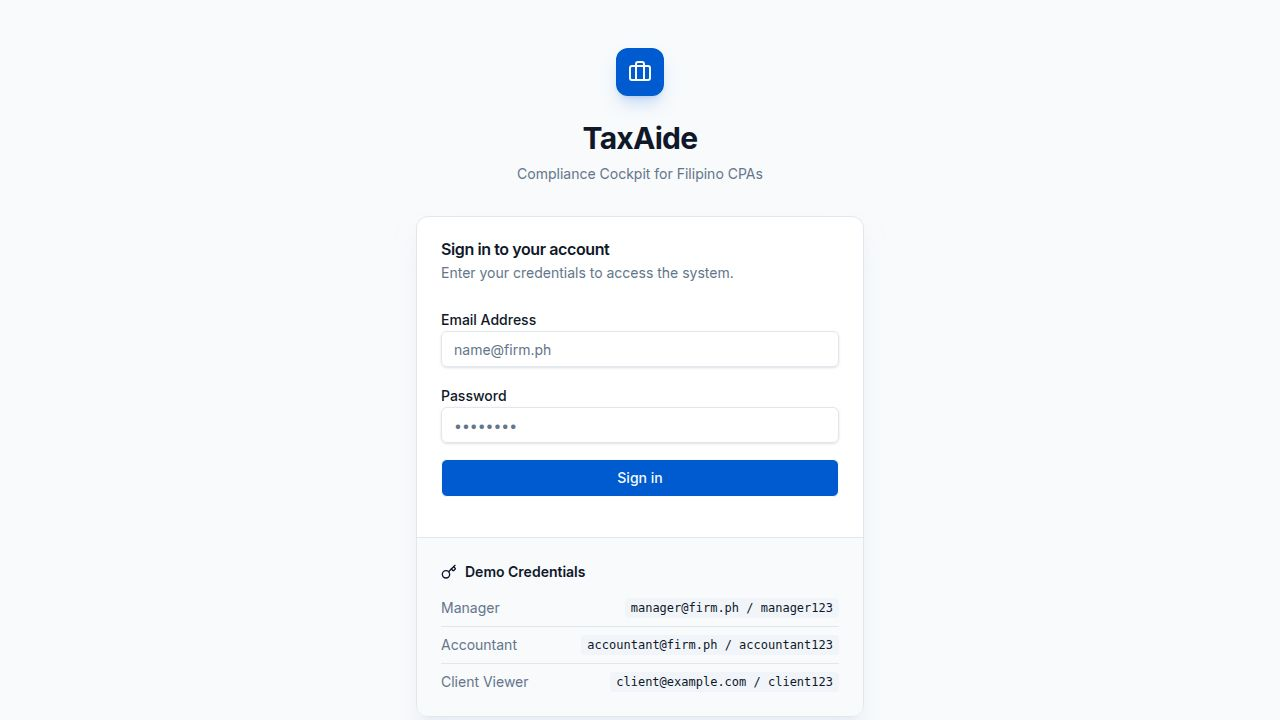
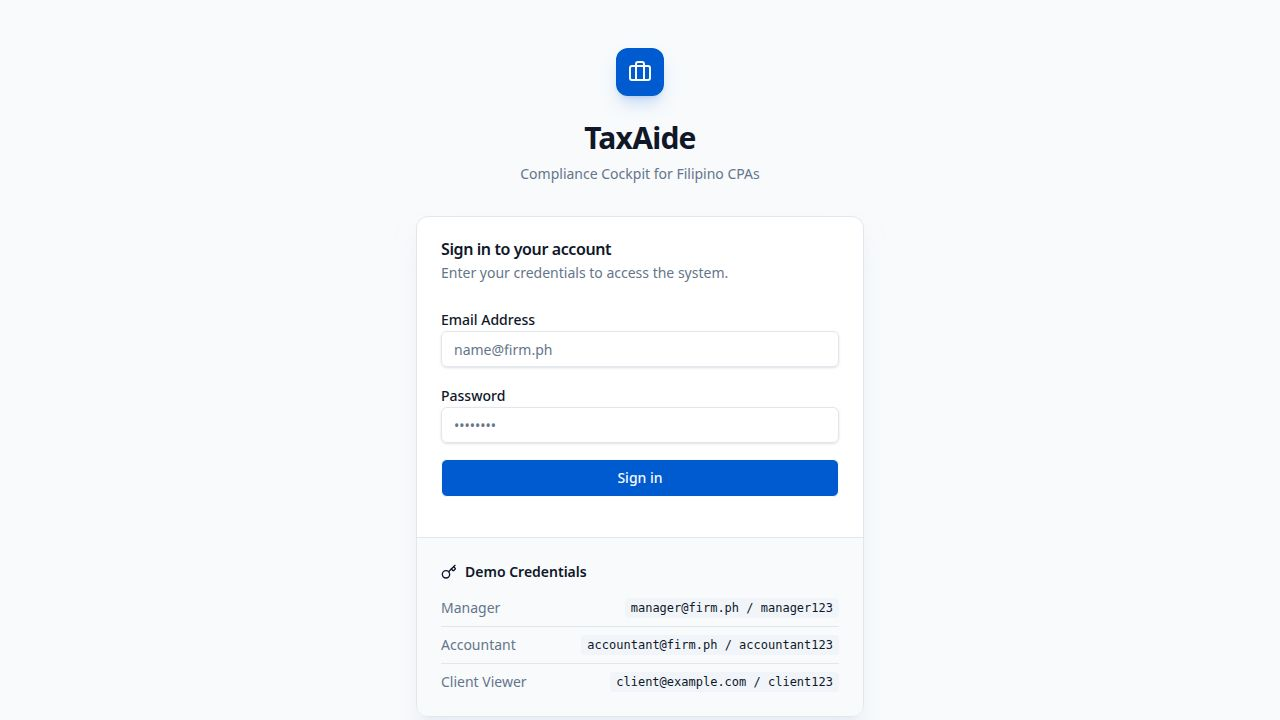
Update tax form labels and remove obsolete monthly VAT filings
Refactor tax form labels, descriptions, and compliance generation logic.

Replit-Commit-Author: Agent
Replit-Commit-Session-Id: 93ede965-432b-4757-ad92-616e92addf89
Replit-Commit-Checkpoint-Type: full_checkpoint
Replit-Commit-Event-Id: 9a07f141-a648-4c57-964b-a7d62065edd6
Replit-Commit-Screenshot-Url: https://storage.googleapis.com/screenshot-production-us-central1/40102629-3669-415f-b81d-ba0838fb7f21/93ede965-432b-4757-ad92-616e92addf89/2CLVzMj
Replit-Helium-Checkpoint-Created: true

diff --git a/artifacts/taxcms/src/pages/client-detail.tsx b/artifacts/taxcms/src/pages/client-detail.tsx
@@ -186,10 +186,10 @@ export default function ClientDetail() {
   const registeredTypes: { label: string; color: string }[] = [];
   if (client.incomeTaxType === "corporate") registeredTypes.push({ label: "1702/1702Q — Corp ITR", color: "bg-emerald-100 text-emerald-700" });
   if (client.incomeTaxType === "individual") registeredTypes.push({ label: "1701/1701Q — Indiv ITR", color: "bg-green-100 text-green-700" });
-  if (client.vatRegistered) registeredTypes.push({ label: "2550M/2550Q — VAT", color: "bg-blue-100 text-blue-700" });
+  if (client.vatRegistered) registeredTypes.push({ label: "2550Q/SLS/SLP — VAT", color: "bg-blue-100 text-blue-700" });
   if (client.percentageTaxRegistered) registeredTypes.push({ label: "2551Q — Percentage Tax", color: "bg-violet-100 text-violet-700" });
   if (client.withholdsCompensation) registeredTypes.push({ label: "1601C/1604C — WHT Comp", color: "bg-amber-100 text-amber-700" });
-  if (client.withholdsEwt) registeredTypes.push({ label: "1601EQ/1604E — EWT", color: "bg-orange-100 text-orange-700" });
+  if (client.withholdsEwt) registeredTypes.push({ label: "0619E/1601EQ/1604E — EWT", color: "bg-orange-100 text-orange-700" });
   if (client.subjectToDst) registeredTypes.push({ label: "2000 — DST", color: "bg-slate-100 text-slate-700" });
   if (client.withholdsFinal) registeredTypes.push({ label: "Final WHT", color: "bg-violet-100 text-violet-700" });
   if (client.hasInventory) registeredTypes.push({ label: "Annual Inventory List", color: "bg-teal-100 text-teal-700" });
@@ -611,8 +611,8 @@ export default function ClientDetail() {
                 <div className="p-3 rounded-md border space-y-2 bg-muted/30">
                   <Label className="text-xs text-muted-foreground uppercase">VAT / Percentage Tax</Label>
                   {[
-                    { key: "vatRegistered", label: "VAT Registered", sub: "Monthly 2550M + Quarterly 2550Q" },
-                    { key: "percentageTaxRegistered", label: "Percentage Tax (Non-VAT)", sub: "Quarterly 2551Q" },
+                    { key: "vatRegistered", label: "Value-Added Tax (VAT)", sub: "Quarterly 2550Q + SLS/SLP (due 25th of following month)" },
+                    { key: "percentageTaxRegistered", label: "Percentage Tax (Non-VAT)", sub: "Quarterly 2551Q (due 25th of following month)" },
                   ].map(item => (
                     <div key={item.key} className="flex items-start gap-3">
                       <Checkbox checked={!!editForm[item.key]} onCheckedChange={v => ef(item.key, v)} />
@@ -623,8 +623,9 @@ export default function ClientDetail() {
                 <div className="p-3 rounded-md border space-y-2 bg-muted/30">
                   <Label className="text-xs text-muted-foreground uppercase">Withholding Taxes</Label>
                   {[
-                    { key: "withholdsCompensation", label: "Withholding Tax on Compensation", sub: "Monthly 1601C + Annual 1604CF" },
-                    { key: "withholdsEwt", label: "Expanded Withholding Tax (EWT)", sub: "Quarterly 1601EQ + Annual 1604E" },
+                    { key: "withholdsCompensation", label: "Withholding Tax on Compensation", sub: "Monthly 1601C (due 10th) + Annual 1604C (due March 1)" },
+                    { key: "withholdsEwt", label: "Expanded Withholding Tax (EWT)", sub: "Monthly 0619E (due 10th) + Quarterly 1601EQ + QAP + Annual 1604E (due March 1)" },
+                    { key: "withholdsFinal", label: "Final Withholding Tax (FWT)", sub: "Monthly 0619F (due 10th) + Quarterly 1601FQ + Annual 1604F (due March 1)" },
                   ].map(item => (
                     <div key={item.key} className="flex items-start gap-3">
                       <Checkbox checked={!!editForm[item.key]} onCheckedChange={v => ef(item.key, v)} />
@@ -641,7 +642,6 @@ export default function ClientDetail() {
                 <div className="p-3 rounded-md border space-y-2 bg-muted/30">
                   <Label className="text-xs text-muted-foreground uppercase">Additional Compliance Requirements</Label>
                   {[
-                    { key: "withholdsFinal", label: "Withholds Final Tax (FWT)", sub: "0619F monthly + 1601FQ quarterly + 1604F annual" },
                     { key: "hasInventory", label: "Has Inventory", sub: "Annual Inventory List due January 30" },
                     { key: "isLessor", label: "Lessor of Commercial Property", sub: "Lessee Information Statement due January 31" },
                     { key: "isEsalesRequired", label: "eSales Reporting Required", sub: "Monthly eSales report due 8th or 10th (based on TIN last digit)" },

diff --git a/artifacts/taxcms/src/pages/clients.tsx b/artifacts/taxcms/src/pages/clients.tsx
@@ -270,8 +270,8 @@ export default function Clients() {
                         <div className="flex items-start gap-3">
                           <Checkbox id="vat" checked={form.vatRegistered} onCheckedChange={() => toggle("vatRegistered")} />
                           <div>
-                            <label htmlFor="vat" className="text-sm font-medium cursor-pointer">VAT Registered</label>
-                            <p className="text-xs text-muted-foreground">Monthly 2550M (due 20th) + Quarterly 2550Q (due 25th)</p>
+                            <label htmlFor="vat" className="text-sm font-medium cursor-pointer">Value-Added Tax (VAT)</label>
+                            <p className="text-xs text-muted-foreground">Quarterly 2550Q + SLS/SLP (due 25th of following month)</p>
                           </div>
                         </div>
                         <div className="flex items-start gap-3">
@@ -291,14 +291,21 @@ export default function Clients() {
                           <Checkbox id="comp" checked={form.withholdsCompensation} onCheckedChange={() => toggle("withholdsCompensation")} />
                           <div>
                             <label htmlFor="comp" className="text-sm font-medium cursor-pointer">Withholding Tax on Compensation</label>
-                            <p className="text-xs text-muted-foreground">Monthly 1601C (due 10th) + Annual 1604CF (due March 1)</p>
+                            <p className="text-xs text-muted-foreground">Monthly 1601C (due 10th) + Annual 1604C (due March 1)</p>
                           </div>
                         </div>
                         <div className="flex items-start gap-3">
                           <Checkbox id="ewt" checked={form.withholdsEwt} onCheckedChange={() => toggle("withholdsEwt")} />
                           <div>
                             <label htmlFor="ewt" className="text-sm font-medium cursor-pointer">Expanded Withholding Tax (EWT)</label>
-                            <p className="text-xs text-muted-foreground">Quarterly 1601EQ + Annual 1604E (due March 1)</p>
+                            <p className="text-xs text-muted-foreground">Monthly 0619E (due 10th) + Quarterly 1601EQ + QAP + Annual 1604E (due March 1)</p>
+                          </div>
+                        </div>
+                        <div className="flex items-start gap-3">
+                          <Checkbox id="whtFinal" checked={form.withholdsFinal} onCheckedChange={() => toggle("withholdsFinal")} />
+                          <div>
+                            <label htmlFor="whtFinal" className="text-sm font-medium cursor-pointer">Final Withholding Tax (FWT)</label>
+                            <p className="text-xs text-muted-foreground">Monthly 0619F (due 10th) + Quarterly 1601FQ + Annual 1604F (due March 1)</p>
                           </div>
                         </div>
                       </div>
@@ -318,13 +325,6 @@ export default function Clients() {
                     <div className="space-y-2 p-3 rounded-md border bg-muted/30">
                       <Label className="text-xs text-muted-foreground uppercase tracking-wider">Additional Compliance Requirements</Label>
                       <div className="space-y-2">
-                        <div className="flex items-start gap-3">
-                          <Checkbox id="whtFinal" checked={form.withholdsFinal} onCheckedChange={() => toggle("withholdsFinal")} />
-                          <div>
-                            <label htmlFor="whtFinal" className="text-sm font-medium cursor-pointer">Withholds Final Tax (FWT)</label>
-                            <p className="text-xs text-muted-foreground">0619F monthly + 1601FQ quarterly + 1604F annual</p>
-                          </div>
-                        </div>
                         <div className="flex items-start gap-3">
                           <Checkbox id="inv" checked={form.hasInventory} onCheckedChange={() => toggle("hasInventory")} />
                           <div>

diff --git a/artifacts/api-server/src/routes/clients.ts b/artifacts/api-server/src/routes/clients.ts
@@ -90,32 +90,10 @@ function generateBIRDeadlines(client: typeof clientsTable.$inferSelect, year: nu
   const fyStartMonth = client.fiscalYearStart ? monthIndex(client.fiscalYearStart) : 1;
   const calYear = fyStartMonth === 1; // calendar year taxpayer
 
-  // ── 0605: Annual Registration Fee — ALL taxpayers, due January 31 ────────
-  deadlines.push({
-    title: `BIR Form 0605 (Annual Registration Fee) — ${year}`,
-    description: `Annual Registration Fee of PHP 500. Due January 31 of each year. File via eFPS or eBIRForms.`,
-    dueDate: isoDate(year, 1, 31),
-    priority: "medium",
-    category: "Other",
-  });
+  // NOTE: BIR Form 0605 is a voluntary payment form — not auto-generated.
+  // Accountants can upload 0605 documents manually in the client's document section.
 
   // ── MONTHLY FORMS ──────────────────────────────────────────────────────
-
-  // 2550M: Monthly VAT Return — due 20th of following month
-  if (client.vatRegistered) {
-    for (let m = 1; m <= 12; m++) {
-      const dueMonth = m === 12 ? 1 : m + 1;
-      const dueYear = m === 12 ? year + 1 : year;
-      const period = `${MONTHS[m - 1]} ${year}`;
-      deadlines.push({
-        title: `BIR Form 2550M — ${period}`,
-        description: `Monthly VAT Return for ${period}. Due 20th of the following month.`,
-        dueDate: isoDate(dueYear, dueMonth, 20),
-        priority: "high",
-        category: "VAT",
-      });
-    }
-  }
 
   // 1601C: Monthly Withholding on Compensation — due 10th of following month
   if (client.withholdsCompensation) {
@@ -493,7 +471,6 @@ interface ComplianceItem {
 }
 
 const FREQUENCY_MAP: Record<string, "monthly" | "quarterly" | "annual"> = {
-  "2550M": "monthly",
   "2550Q": "quarterly",
   "2551Q": "quarterly",
   "1601C": "monthly",
@@ -507,7 +484,6 @@ const FREQUENCY_MAP: Record<string, "monthly" | "quarterly" | "annual"> = {
   "1701": "annual",
   "1701Q": "quarterly",
   "2000": "monthly",
-  "0605": "annual",
   "0619E": "monthly",
   "0619F": "monthly",
   "AFS": "annual",

diff --git a/artifacts/taxcms/index.html b/artifacts/taxcms/index.html
@@ -7,7 +7,7 @@
     <link rel="icon" type="image/svg+xml" href="/favicon.svg" />
     <link rel="preconnect" href="https://fonts.googleapis.com">
     <link rel="preconnect" href="https://fonts.gstatic.com" crossorigin>
-    <link href="https://fonts.googleapis.com/css2?family=Inter:wght@400;500;600;700&display=swap" rel="stylesheet">
+    <link href="https://fonts.googleapis.com/css2?family=Noto+Sans:wght@400;500;600;700&display=swap" rel="stylesheet">
   </head>
   <body>
     <div id="root"></div>

diff --git a/artifacts/taxcms/src/index.css b/artifacts/taxcms/src/index.css
@@ -115,7 +115,7 @@
   --sidebar-accent-foreground: 210 40% 98%;
   --sidebar-ring: 214 100% 41%;
 
-  --app-font-sans: 'Inter', system-ui, sans-serif;
+  --app-font-sans: 'Noto Sans', system-ui, sans-serif;
   --app-font-serif: Georgia, serif;
   --app-font-mono: Menlo, monospace;
 }
